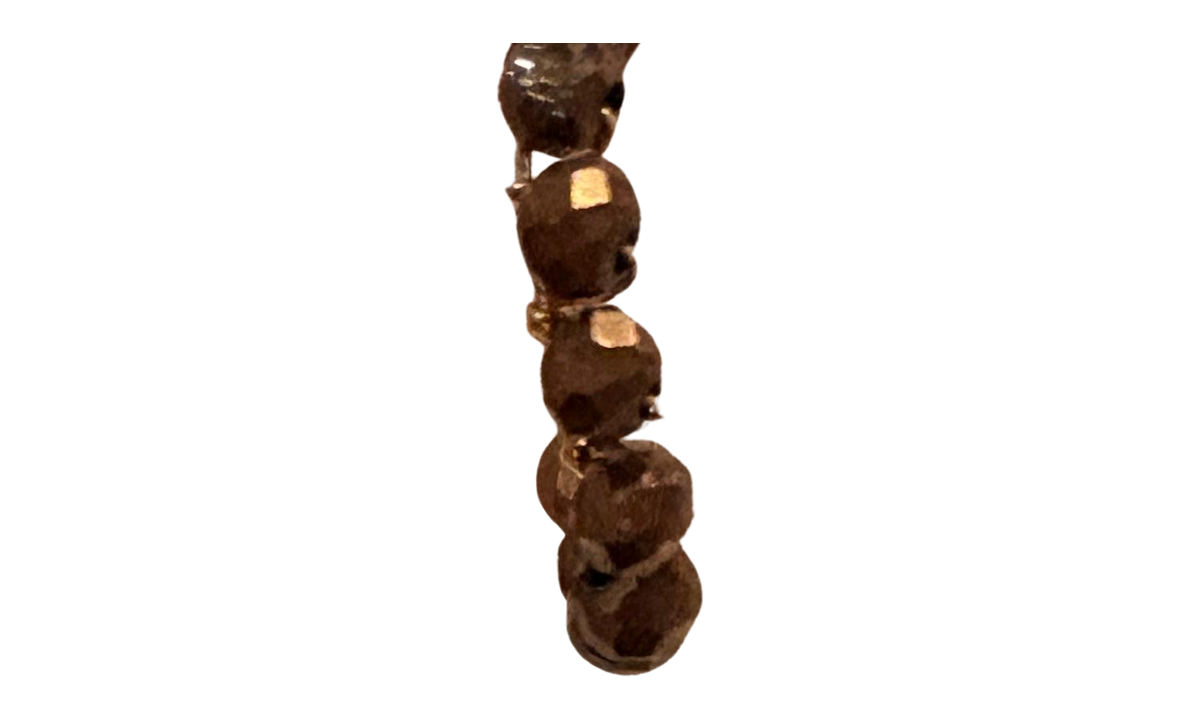
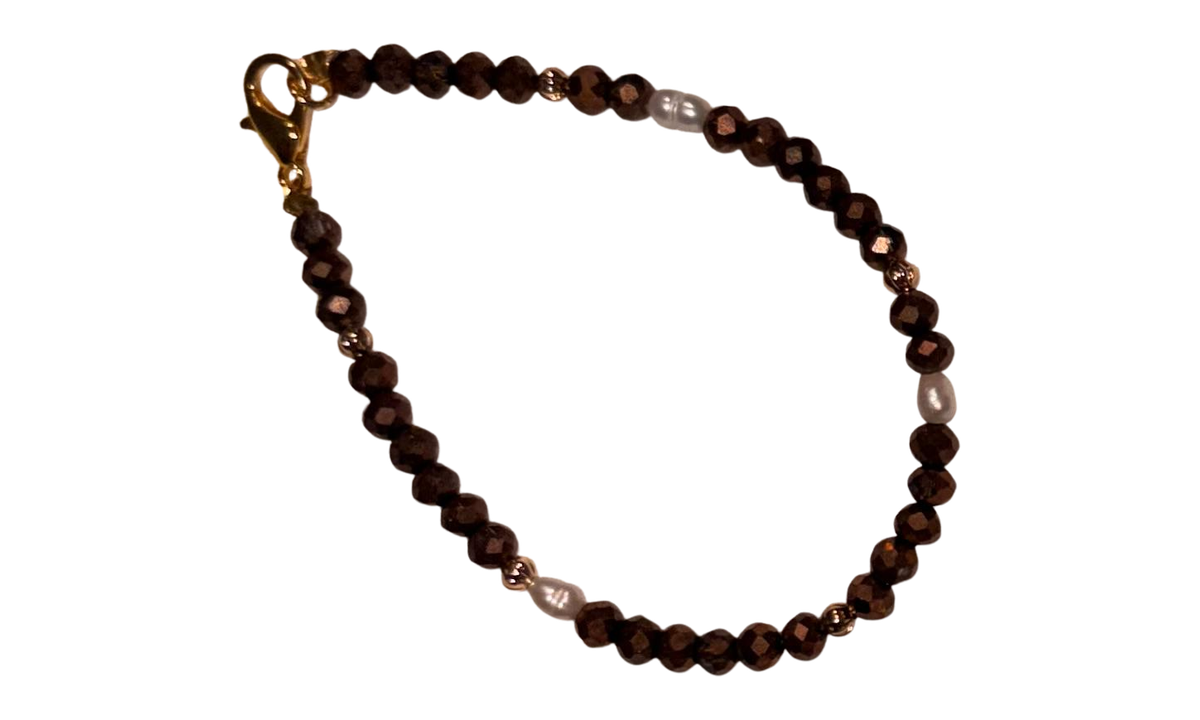
Agregar 11 piezas procesadas (5 pulseras, aretes y collares); aretes en espejo y anillos sin corte

Changed region(s): [[0.185, 0.0611, 0.8017, 0.9472]]

diff --git a/index.html b/index.html
@@ -500,7 +500,16 @@ function drawEarrings(lm){
   const o = state.offsets.aretes, img = imagenActiva();
   const w = d * 0.15 * o.scale;
   const h = w * (img.naturalHeight / img.naturalWidth || 2.1);
-  [earA, earB].forEach(p => drawImg(img, p.x + o.x*canvas.width, p.y + o.y*canvas.height, w, h, roll, 0.10));
+  // Espejo: un arete normal, el del otro lado volteado horizontalmente
+  [[earA, 1], [earB, -1]].forEach(([p, dir]) => {
+    if (!usable(img)) return;
+    ctx.save();
+    ctx.translate(p.x + o.x*canvas.width, p.y + o.y*canvas.height);
+    ctx.rotate(roll);
+    ctx.scale(dir, 1);
+    ctx.drawImage(img, -w/2, -h*0.10, w, h);
+    ctx.restore();
+  });
 }
 function drawNecklace(lm){
   const chin = P(lm,152), fore = P(lm,10), jawL = P(lm,234), jawR = P(lm,454);
@@ -535,10 +544,8 @@ function drawRings(landmarks){
   const w = fingerLen * 1.9 * o.scale;
   const h = w * (img.naturalHeight / img.naturalWidth || 0.56);
   const px = pip.x + o.x*canvas.width, py = pip.y + o.y*canvas.height;
+  // Sin corte: el anillo se ve completo (el usuario prefiere la imagen tal cual)
   drawImg(img, px, py, w, h, ang + Math.PI/2, 0.5);
-  const eje = {x:dx/lenD, y:dy/lenD};
-  const lado = ladoLejano(hand, eje, f.mcp, f.pip);
-  ocluir(c => pathMitad(c, {x:px,y:py}, eje, h*0.55, lado));
 }
 function drawPulseras(landmarks){
   if (!landmarks || !landmarks.length) return;
